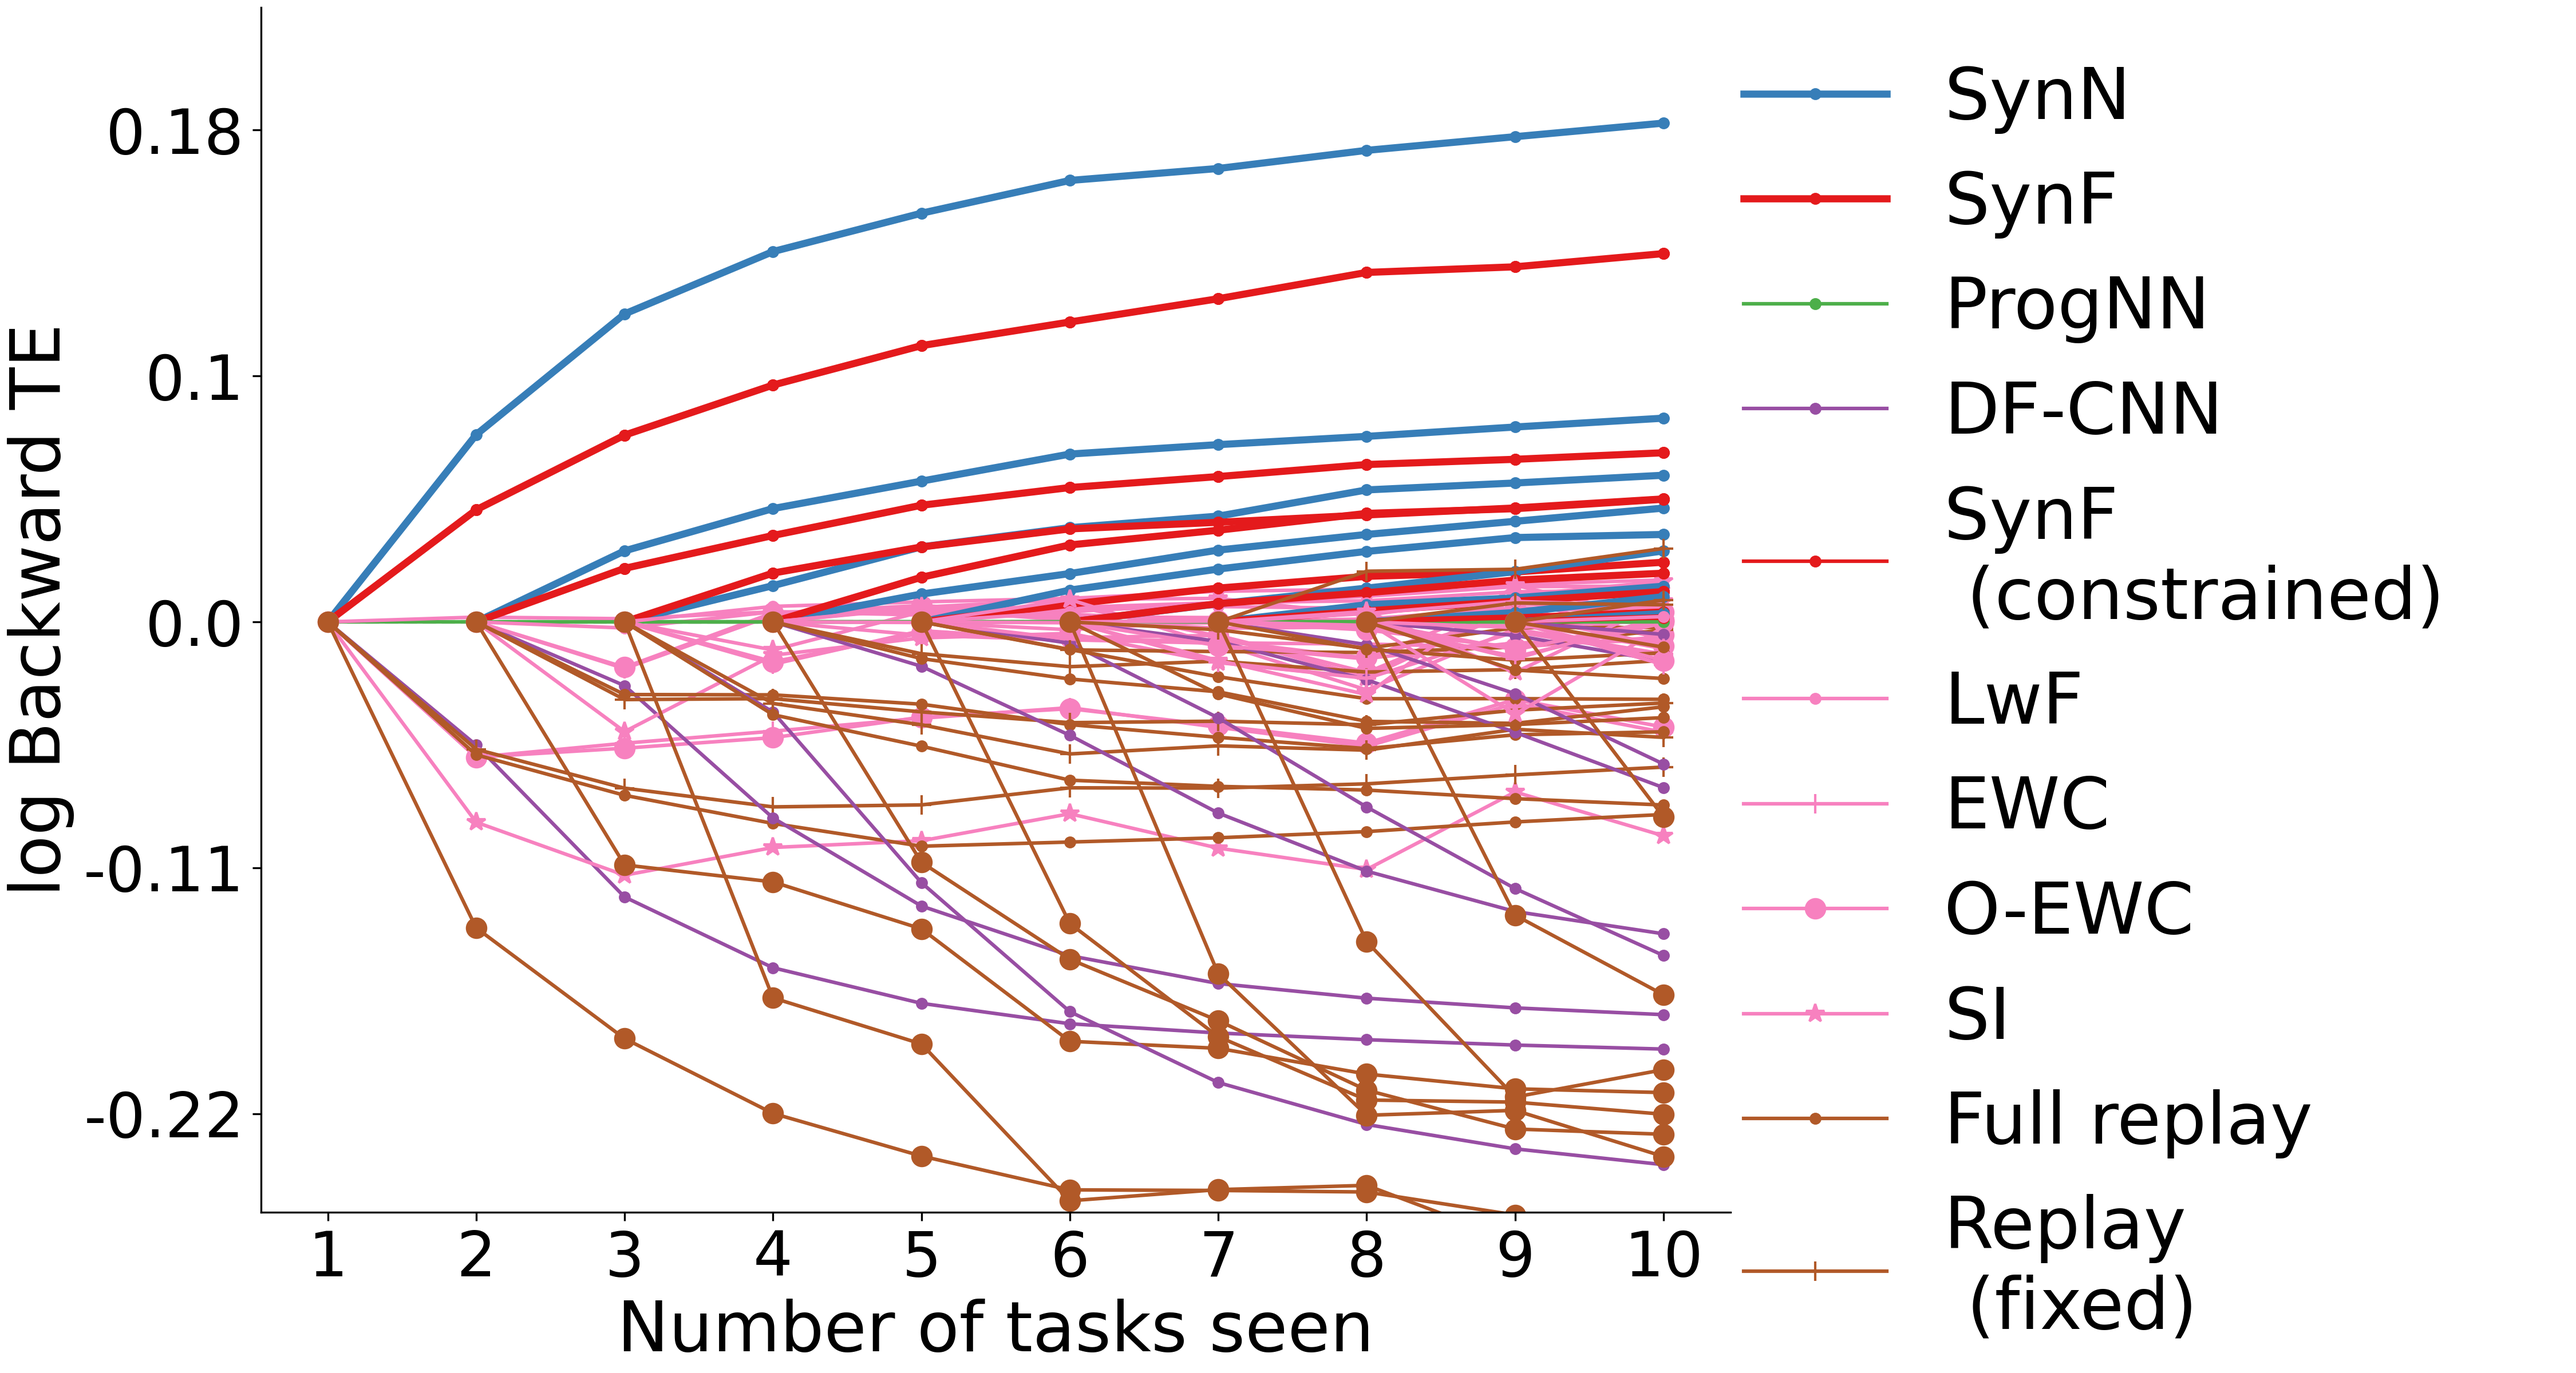
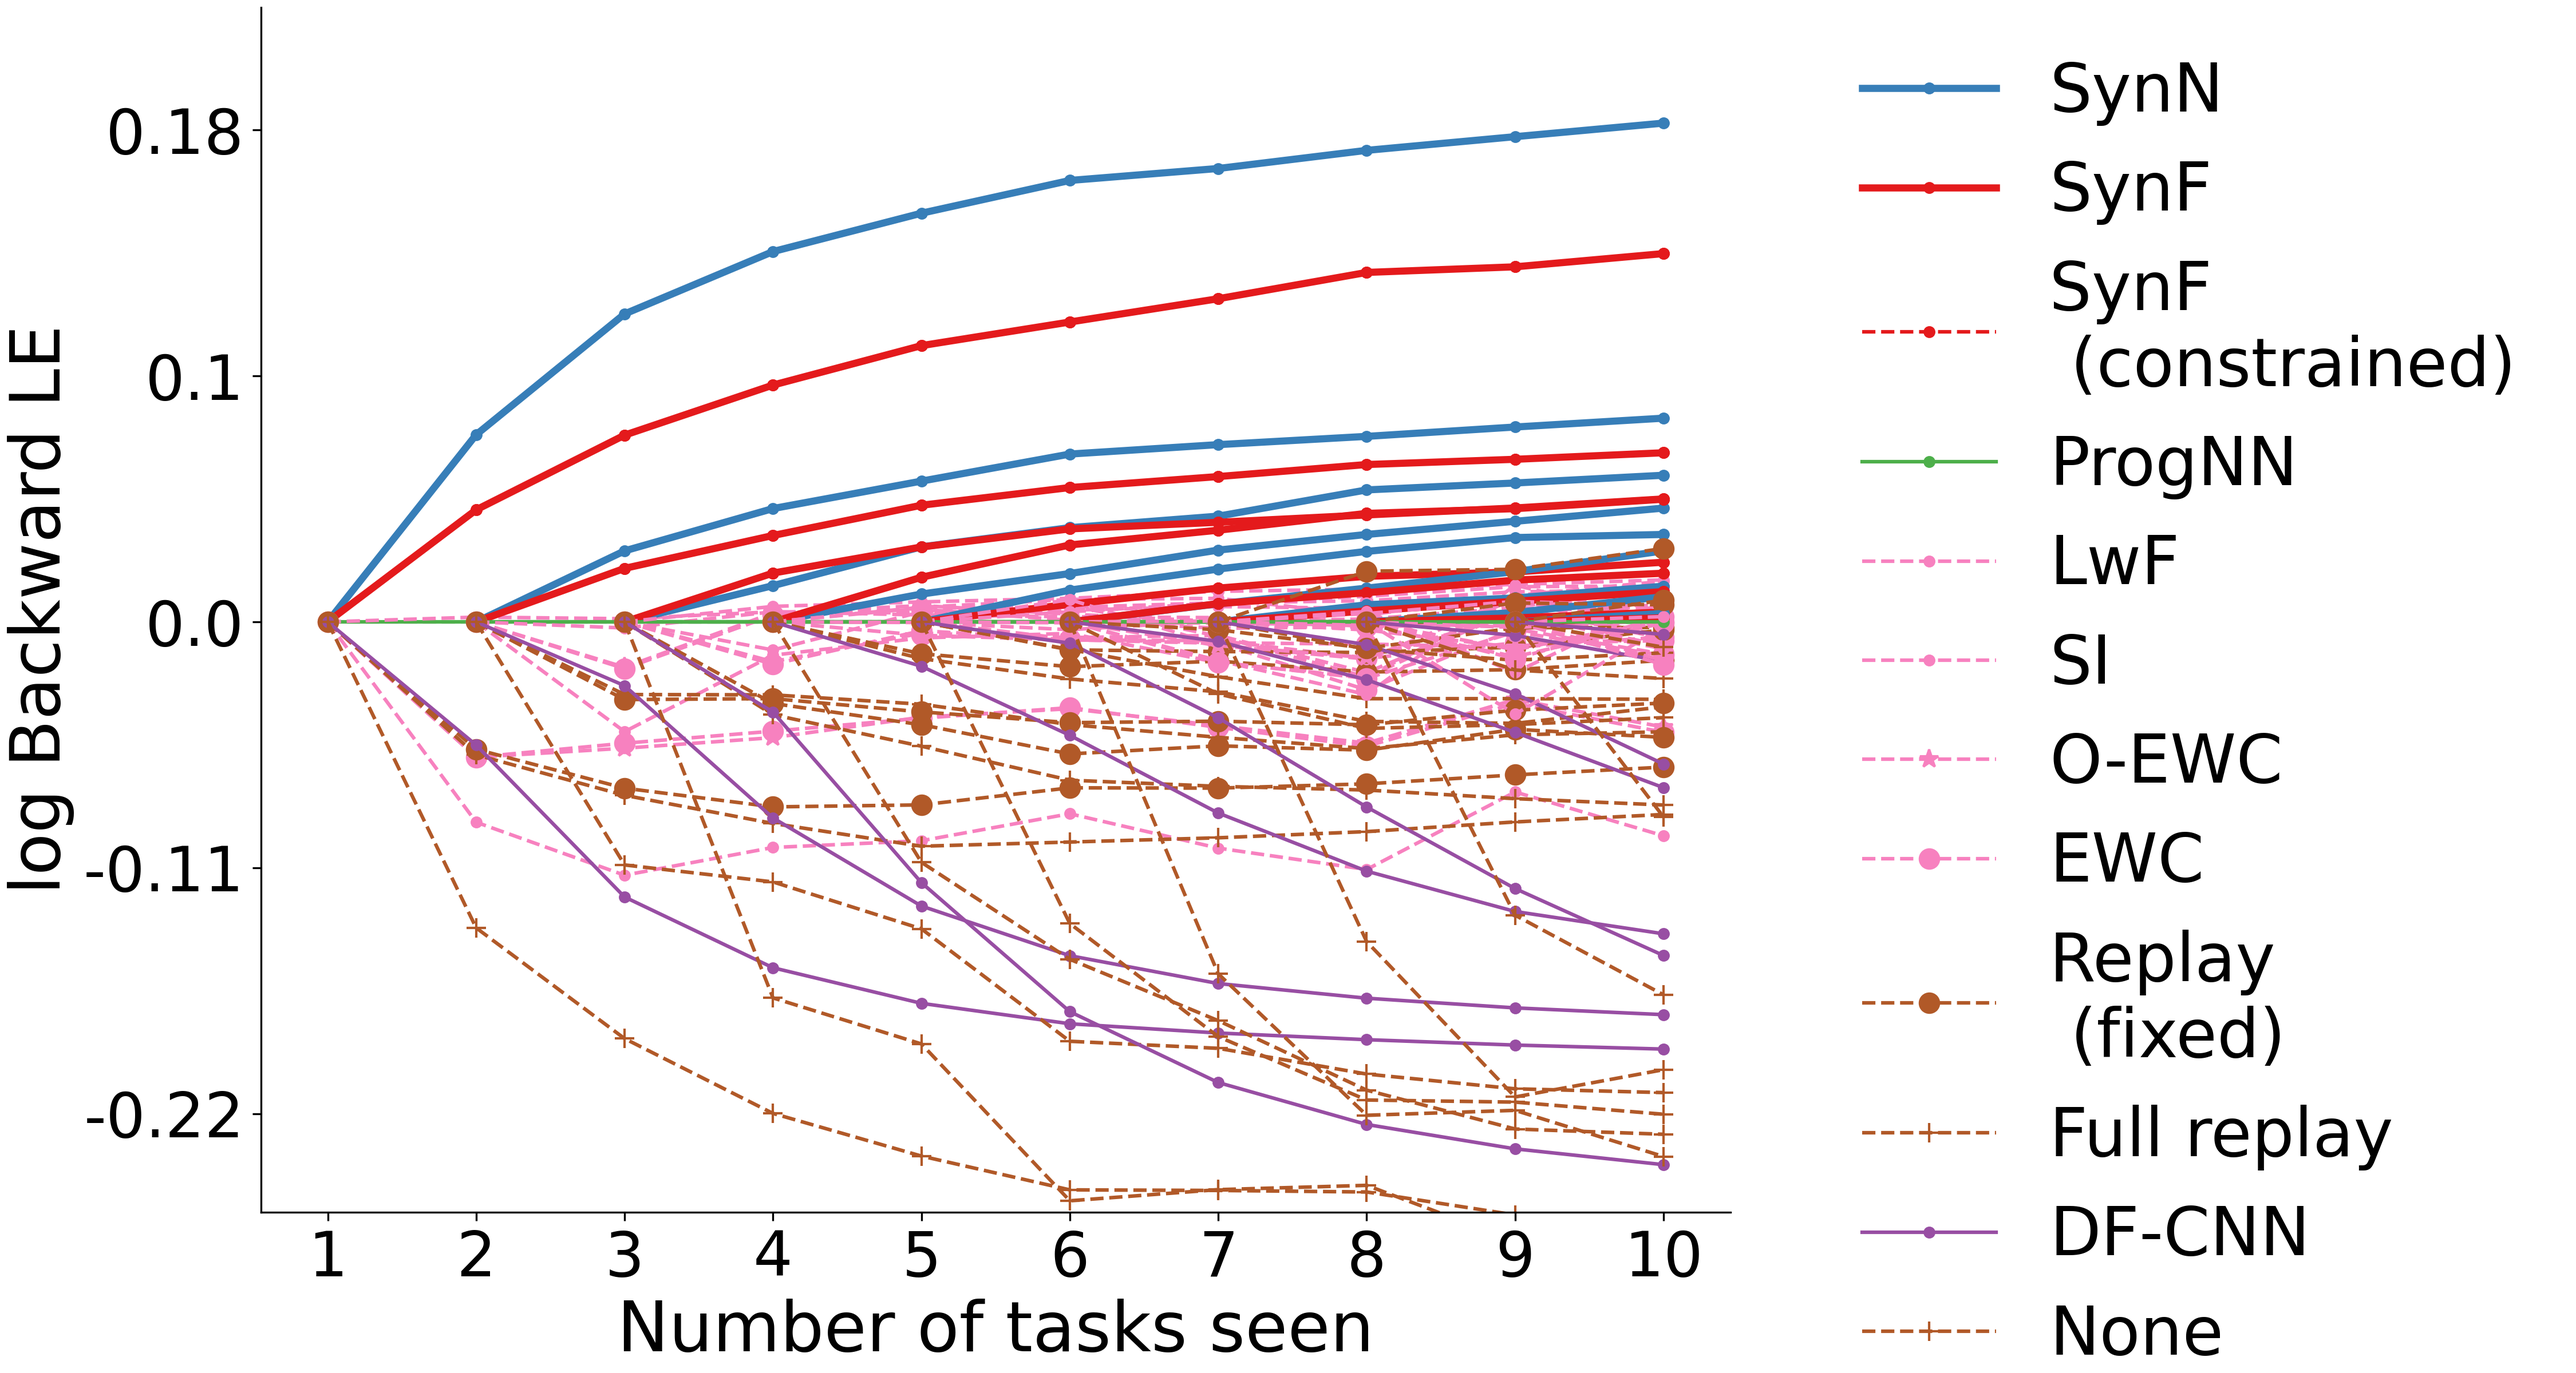
plot edit

diff --git a/experiments/cifar_exp/slide_plot.py b/experiments/cifar_exp/slide_plot.py
@@ -119,9 +119,11 @@ shifts = 6
 total_alg_top = 4
 total_alg_bottom = 8
 total_alg = 12
-alg_name_top = ['SynN','SynF','ProgNN', 'DF-CNN']
-alg_name_bottom = ['SynF','LwF','EWC','O-EWC','SI', 'Full replay', 'Replay \n (fixed)', 'None']
-alg_name = ['SynN','SynF','ProgNN', 'DF-CNN', 'SynF \n (constrained)','LwF','EWC','O-EWC','SI', 'Full replay', 'Replay \n (fixed)', 'None']
+#alg_name_top = ['SynN','SynF','ProgNN', 'DF-CNN']
+#alg_name_bottom = ['SynF','LwF','EWC','O-EWC','SI', 'Full replay', 'Replay \n (fixed)', 'None']
+#alg_name = ['SynN','SynF','ProgNN', 'DF-CNN', 'SynF \n (constrained)','LwF','EWC','O-EWC','SI', 'Full replay', 'Replay \n (fixed)', 'None']
+alg_name = ['SynN','SynF','ProgNN', 'SynF \n (constrained)', 'DF-CNN' ,'LwF', 'None', 'EWC','O-EWC','SI', 'Full replay', 'Replay \n (fixed)']
+
 combined_alg_name = ['Odin','Odif','ProgNN', 'DF-CNN','LwF','EWC','O-EWC','SI', 'Total Replay', 'Partial Replay', 'None']
 model_file_top = ['dnn0withrep','fixed_uf10withrep','Prog_NN','DF_CNN']
 model_file_bottom = ['uf10withrep', 'LwF', 'EWC', 'OEWC', 'si', 'offline', 'exact', 'None']
@@ -133,7 +135,7 @@ ftes_bottom = [[] for i in range(total_alg_bottom)]
 tes_bottom = [[] for i in range(total_alg_bottom)]
 
 #combined_alg_name = ['L2N','L2F','Prog-NN', 'DF-CNN','LwF','EWC','O-EWC','SI', 'Replay (increasing amount)', 'Replay (fixed amount)', 'None']
-model_file_combined = ['dnn0withrep','fixed_uf10withrep','Prog_NN','DF_CNN', 'uf10withrep', 'LwF', 'EWC', 'OEWC', 'si', 'offline', 'exact', 'None']
+model_file_combined = ['dnn0withrep','fixed_uf10withrep','Prog_NN', 'uf10withrep', 'DF_CNN', 'LwF', 'None', 'EWC', 'OEWC', 'si', 'offline', 'exact']
 
 ########################
 
@@ -148,9 +150,9 @@ for alg in range(total_alg):
 
     for slot in range(slots):
         for shift in range(shifts):
-            if alg < 2 or alg==4:
+            if alg < 2 or alg==3:
                 filename = './result/result/'+model_file_combined[alg]+'_'+str(shift+1)+'_'+str(slot)+'.pickle'
-            elif alg == 2 or alg == 3:
+            elif alg == 2 or alg == 4:
                 filename = './benchmarking_algorthms_result/'+model_file_combined[alg]+'-'+str(shift+1)+'-'+str(slot+1)+'.pickle'
             else:
                 filename = './benchmarking_algorthms_result/'+model_file_combined[alg]+'-'+str(slot+1)+'-'+str(shift+1)+'.pickle'
@@ -232,6 +234,7 @@ df_500 = pd.DataFrame.from_dict(te_500)
 df_500 = pd.melt(df_500,var_name='Algorithms', value_name='Transfer Efficieny')
 
 # %%
+legend_order = [0, 2, 1, 3, 4, 5, 6, 11, 10, 9, 8, 7]
 fig = plt.figure(constrained_layout=True,figsize=(15,8))
 gs = fig.add_gridspec(8, 15)
 #gs = fig.add_gridspec(16, 29)
@@ -248,11 +251,12 @@ marker_style_bottom = ['.', '.', '+', 'o', '*', '.', '+', 'o']
 marker_style = ['.', '.', '.', '.', '.', '.', '+', 'o', '*', '.', '+', 'o']
 marker_style_scatter = ['.', '.', '.', '.', '.', '.', '+', 'o', '*', '.', '+', 'o']
 
+ls = ['solid', 'solid', 'solid', 'dashed', 'solid', 'dashed', 'dashed', 'dashed', 'dashed', 'dashed', 'dashed', 'dashed']
 
 #clr_combined = ["#377eb8", "#e41a1c", "#4daf4a", "#984ea3", "#f781bf", "#f781bf", "#f781bf", "#f781bf", "#b15928", "#b15928", "#b15928"]
 #c_combined = sns.color_palette(clr_combined, n_colors=total_alg_top+total_alg_bottom)
 
-clr_combined_ = ["#377eb8", "#e41a1c", "#4daf4a", "#984ea3", "#e41a1c", "#f781bf", "#f781bf", "#f781bf", "#f781bf", "#b15928", "#b15928", "#b15928"]
+clr_combined_ = ["#377eb8", "#e41a1c", "#4daf4a", "#e41a1c", "#984ea3", "#f781bf", "#b15928", "#f781bf", "#f781bf", "#f781bf", "#b15928", "#b15928"]
 c_combined_ = sns.color_palette(clr_combined_, n_colors=total_alg)
 
 fontsize=29
@@ -261,17 +265,18 @@ legendsize=14
 
 #ax = fig.add_subplot(gs[:7,:7])
 
-for i, fte in enumerate(ftes_top):
+for i in legend_order:
+    fte = ftes_top[i]
     fte[0] = 1
     if i == 0:
-        ax.plot(np.arange(1,11), fte, color=c_combined_[i], marker=marker_style[i], markersize=12, label=alg_name[i], linewidth=3)
+        ax.plot(np.arange(1,11), fte, color=c_combined_[i], marker=marker_style[i], markersize=12, label=alg_name[i], linestyle=ls[i], linewidth=3)
         continue
 
     if i == 1:
-        ax.plot(np.arange(1,11), fte, color=c_combined_[i], marker=marker_style[i], markersize=12, label=alg_name[i], linewidth=3)
+        ax.plot(np.arange(1,11), fte, color=c_combined_[i], marker=marker_style[i], markersize=12, label=alg_name[i], linestyle=ls[i], linewidth=3)
         continue
     
-    ax.plot(np.arange(1,11), fte, color=c_combined_[i], marker=marker_style[i], markersize=12, label=alg_name[i])
+    ax.plot(np.arange(1,11), fte, color=c_combined_[i], marker=marker_style[i], markersize=12, linestyle=ls[i], label=alg_name[i])
     
 ax.set_xticks(np.arange(1,11))
 ax.set_yticks([0.85, 1, 1.1, 1.2, 1.3])
@@ -293,7 +298,7 @@ ax.set_yticklabels(labels)
 
 ax.tick_params(labelsize=ticksize)
 
-ax.set_ylabel('log Forward TE', fontsize=fontsize)
+ax.set_ylabel('log Forward LE', fontsize=fontsize)
 ax.set_xlabel('Number of tasks seen', fontsize=fontsize)
 
 right_side = ax.spines["right"]
@@ -544,11 +549,13 @@ right_side.set_visible(False)
 top_side = ax.spines["top"]
 top_side.set_visible(False)
 '''
-fig.legend(bbox_to_anchor=(.97, 1), fontsize=legendsize+16, frameon=False)
+fig.legend(fontsize=legendsize+14, frameon=False)
 #fig.legend(frameon=False)
 plt.savefig('result/figs/slide_fte.png',dpi=300)
 
 # %%
+legend_order = [0, 1, 3, 2, 5, 9, 8, 7, 11, 10, 4, 6]
+
 fig = plt.figure(constrained_layout=True,figsize=(15,8))
 gs = fig.add_gridspec(8, 15)
 #gs = fig.add_gridspec(16, 29)
@@ -569,8 +576,8 @@ marker_style_scatter = ['.', '.', '.', '.', '.', '.', '+', 'o', '*', '.', '+', '
 #clr_combined = ["#377eb8", "#e41a1c", "#4daf4a", "#984ea3", "#f781bf", "#f781bf", "#f781bf", "#f781bf", "#b15928", "#b15928", "#b15928"]
 #c_combined = sns.color_palette(clr_combined, n_colors=total_alg_top+total_alg_bottom)
 
-clr_combined_ = ["#377eb8", "#e41a1c", "#4daf4a", "#984ea3", "#e41a1c", "#f781bf", "#f781bf", "#f781bf", "#f781bf", "#b15928", "#b15928", "#b15928"]
-c_combined_ = sns.color_palette(clr_combined_, n_colors=total_alg)
+#clr_combined_ = ["#377eb8", "#e41a1c", "#4daf4a", "#984ea3", "#e41a1c", "#f781bf", "#f781bf", "#f781bf", "#f781bf", "#b15928", "#b15928", "#b15928"]
+#c_combined_ = sns.color_palette(clr_combined_, n_colors=total_alg)
 
 fontsize=29
 ticksize=26
@@ -584,26 +591,26 @@ for i in range(task_num - 1):
         et[j,:] = np.asarray(btes_top[j][i])
 
     ns = np.arange(i + 1, task_num + 1)
-    for j in range(0,total_alg):
+    for j in legend_order:
         if j == 0:
             if i == 0:
-                ax.plot(ns, et[j,:], marker=marker_style[j], markersize=8, label = alg_name[j], color=c_combined_[j], linewidth = 3)
+                ax.plot(ns, et[j,:], marker=marker_style[j], markersize=8, label = alg_name[j], color=c_combined_[j], linestyle=ls[j], linewidth = 3)
             else:
-                ax.plot(ns, et[j,:], marker=marker_style[j], markersize=8, color=c_combined_[j], linewidth = 3)
+                ax.plot(ns, et[j,:], marker=marker_style[j], markersize=8, color=c_combined_[j], linestyle=ls[j], linewidth = 3)
         elif j == 1:
             if i == 0:
-                ax.plot(ns, et[j,:], marker=marker_style[j], markersize=8, label = alg_name_top[j], color=c_combined_[j], linewidth = 3)
+                ax.plot(ns, et[j,:], marker=marker_style[j], markersize=8, label = alg_name[j], color=c_combined_[j], linestyle=ls[j], linewidth = 3)
             else:
-                ax.plot(ns, et[j,:], marker=marker_style[j], markersize=8, color=c_combined_[j], linewidth = 3)
+                ax.plot(ns, et[j,:], marker=marker_style[j], markersize=8, color=c_combined_[j], linestyle=ls[j], linewidth = 3)
         else:
             if i == 0:
-                ax.plot(ns, et[j,:], marker=marker_style[j], markersize=8, label = alg_name[j], color=c_combined_[j])
+                ax.plot(ns, et[j,:], marker=marker_style[j], markersize=8, label = alg_name[j], linestyle=ls[j], color=c_combined_[j])
             else:
-                ax.plot(ns, et[j,:], marker=marker_style[j], markersize=8, color=c_combined_[j])
+                ax.plot(ns, et[j,:], marker=marker_style[j], markersize=8, linestyle=ls[j], color=c_combined_[j])
 
 
 ax.set_xlabel('Number of tasks seen', fontsize=fontsize)
-ax.set_ylabel('log Backward TE', fontsize=fontsize)
+ax.set_ylabel('log Backward LE', fontsize=fontsize)
 
 ax.set_yticks([.8,.9,1, 1.1,1.2])
 ax.set_xticks(np.arange(1,11))
@@ -630,6 +637,6 @@ top_side.set_visible(False)
 ax.hlines(1, 1,10, colors='grey', linestyles='dashed',linewidth=1.5)
 
 handles, labels_ = ax.get_legend_handles_labels()
-fig.legend(bbox_to_anchor=(.974, 1), fontsize=legendsize+16, frameon=False)
+fig.legend(fontsize=legendsize+14, frameon=False)
 plt.savefig('result/figs/slide_bte.png', dpi=300)
 # %%
